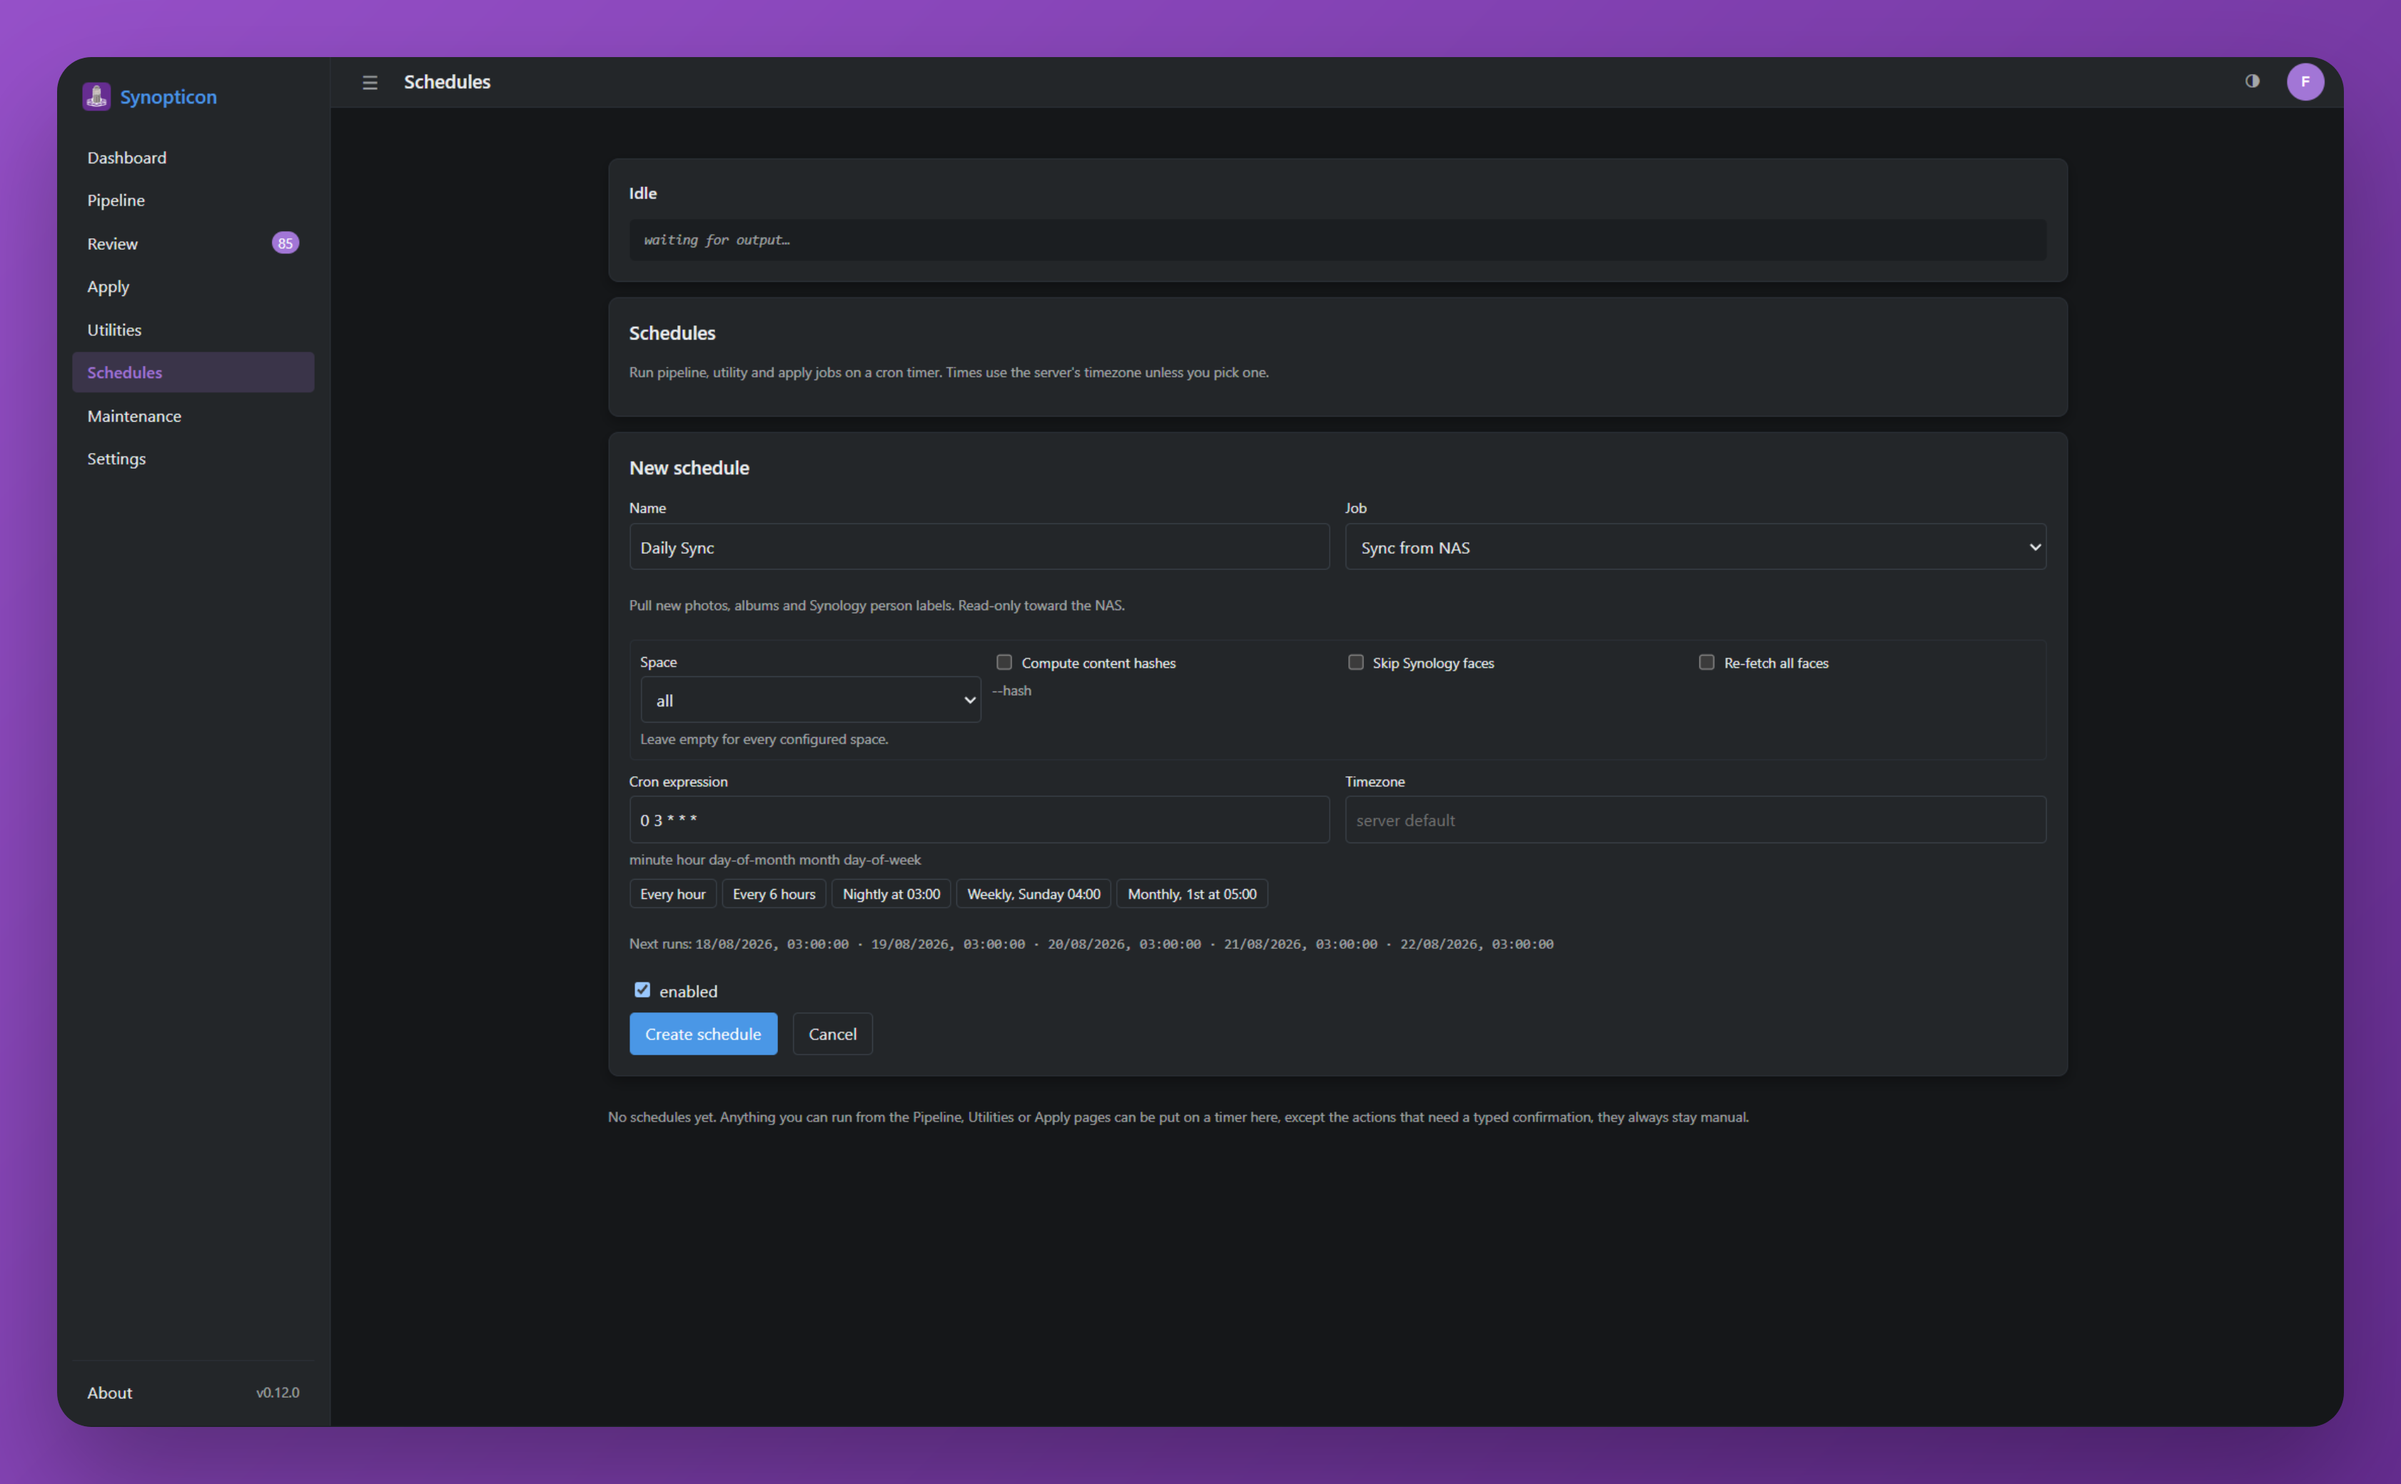
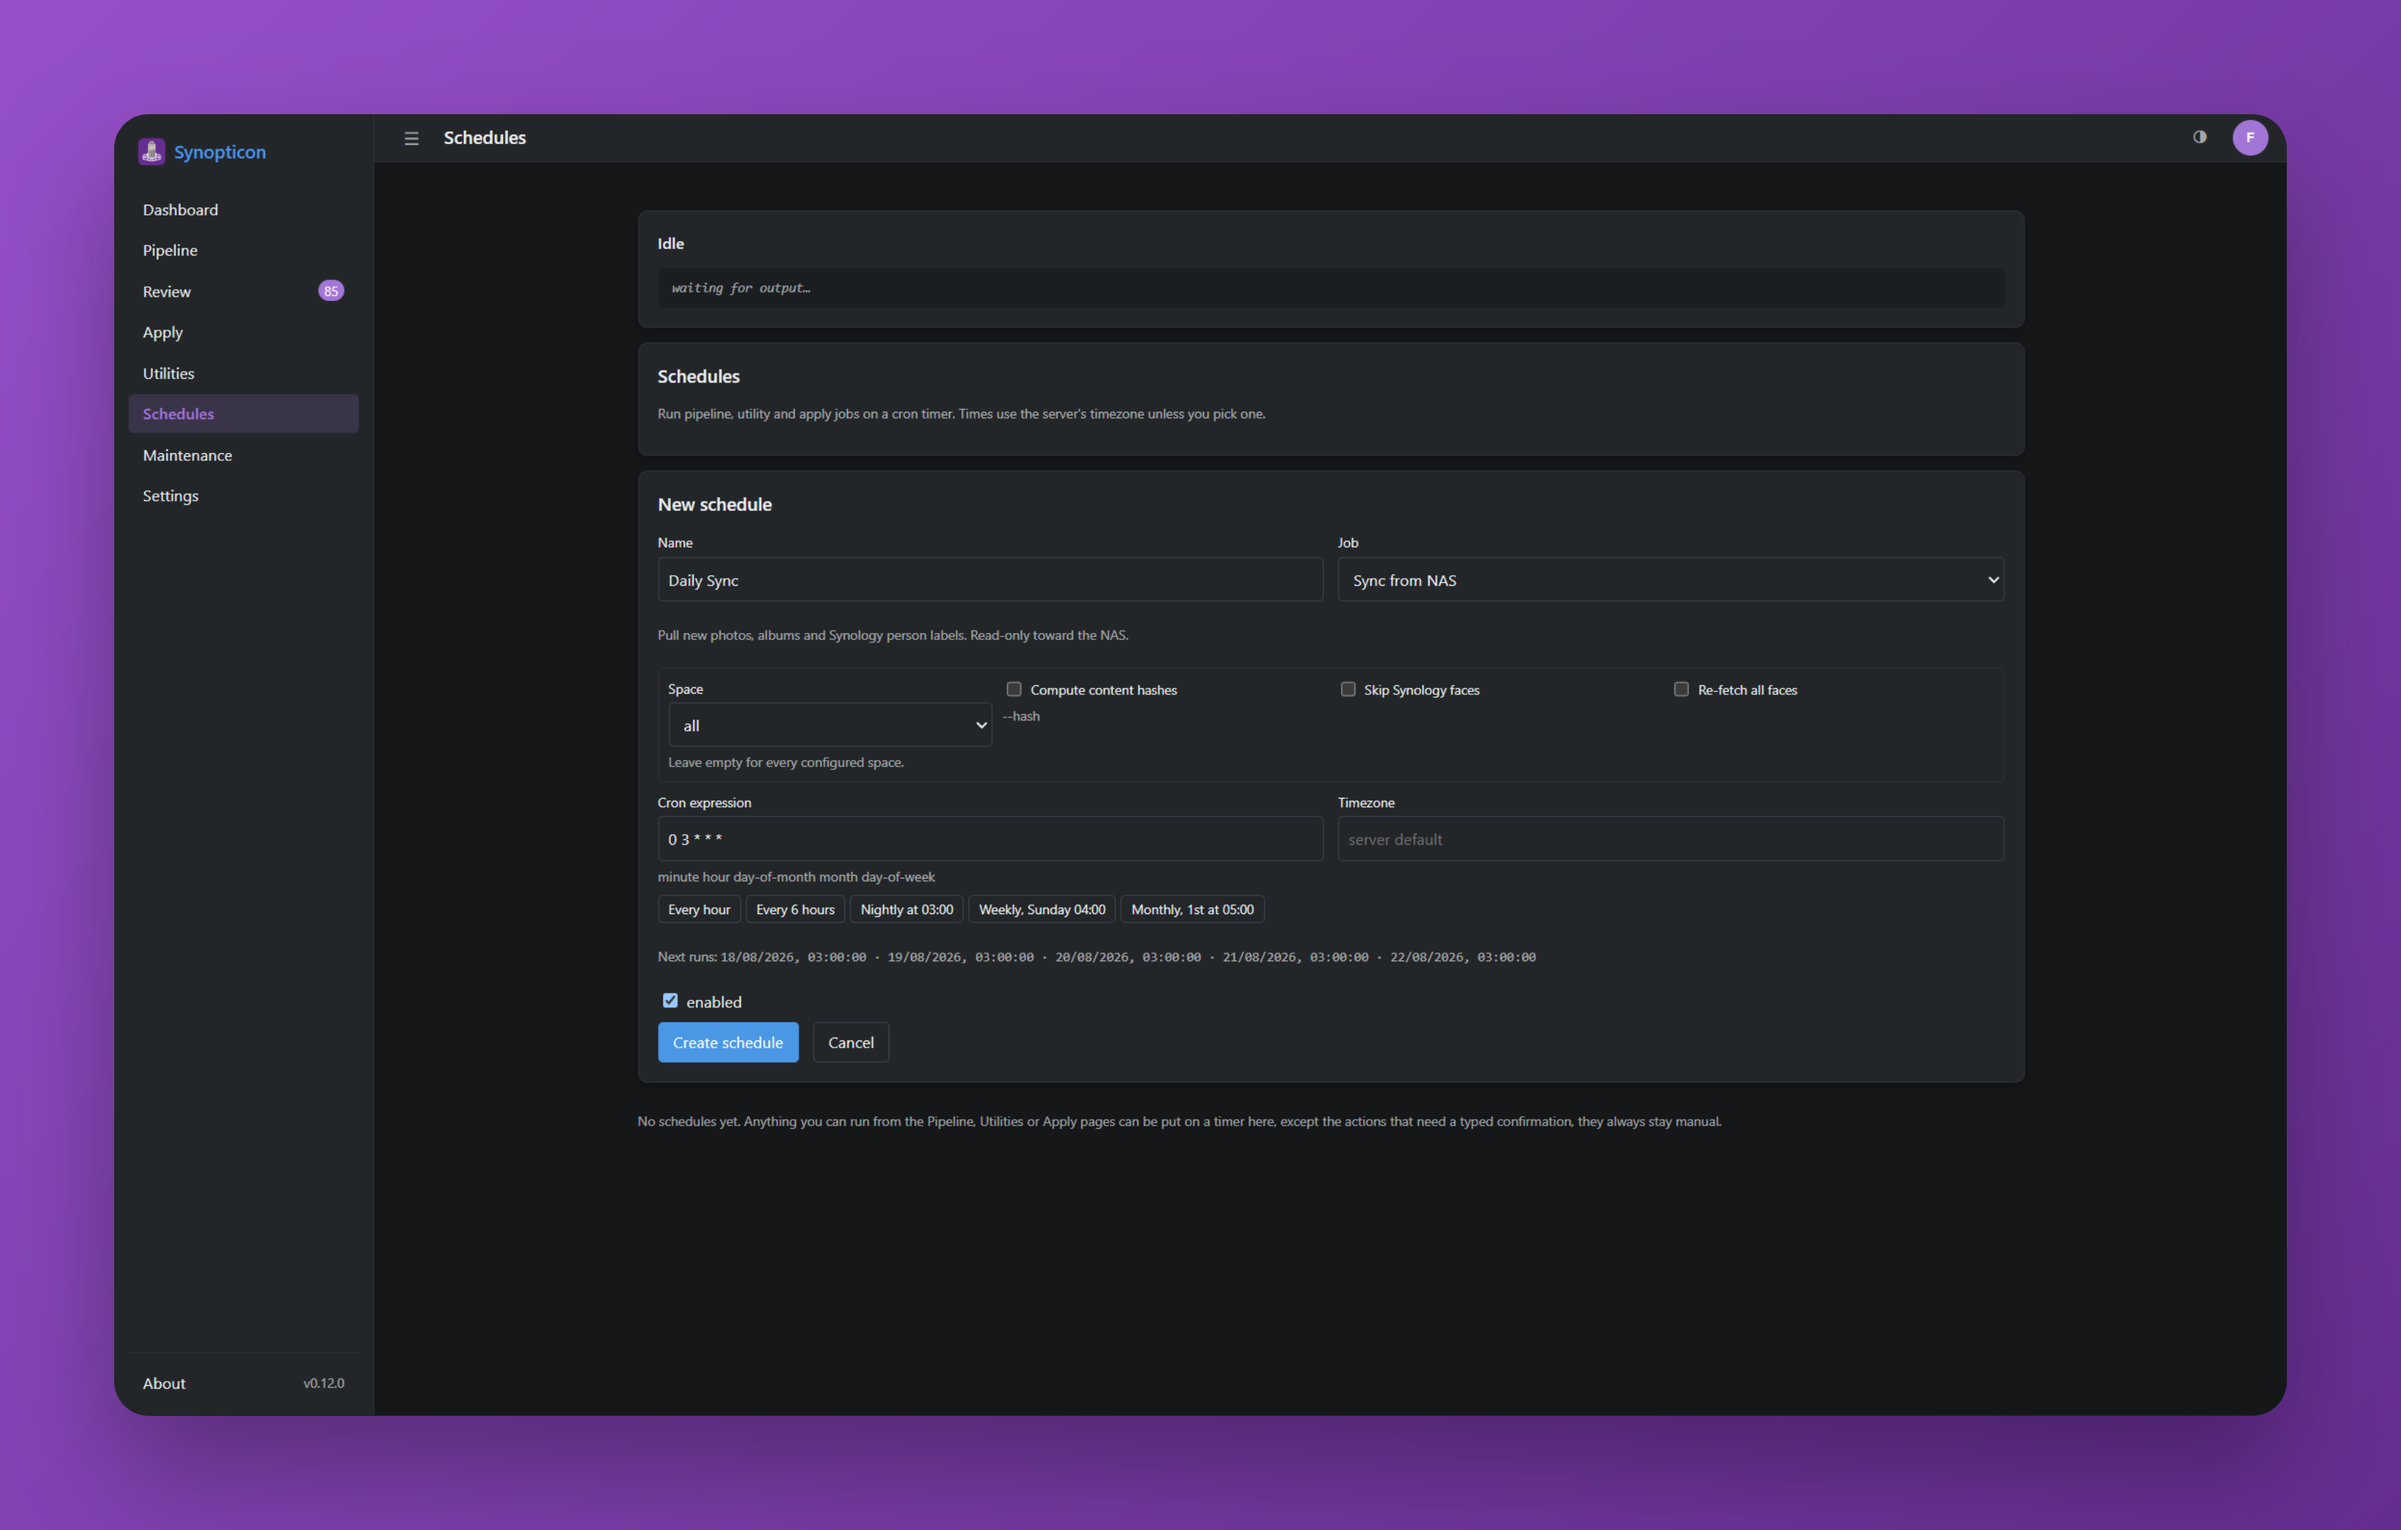
chore(docs): fix some factual issues

diff --git a/README.md b/README.md
@@ -3,7 +3,7 @@
 Synopticon is a toolkit to run alongside Synology Photos, consisting of a set of standalone utilities that run over your library and take on the jobs DSM currently does poorly or not at all. The current toolkit includes enhanced face recognition, robust face grouping, automatic face reassignment, duplicate photo deletion and much more.
 
 **Enhanced face recognition**  
- Synology's built-in face detection misses faces and sometimes links photos to the wrong person. Synopticon runs a frontier ensemble pipeline (multi-scale SCRFD + YOLO-face detection, ArcFace + AdaFace + MagFace embeddings, graph clustering) over your library, cross-references the results against what Synology already knows, and writes corrections back through Synology Photos' Person API. Writebacks only occur after your explicit review.
+ Synology's built-in face detection misses faces and sometimes links photos to the wrong person. Synopticon runs a cutting-edge face detection pipeline over your library, cross-references the results against what Synology already knows, and writes corrections back through Synology Photos' Person API. Writebacks only occur after your explicit review.
 
 ![](./assets/pretty_screenshots/review.png)
 
@@ -23,7 +23,7 @@ After the initial setup, schedule synchronization with the NAS, face detection a
 ## Quickstart
 
 Install the requirements:
-- Python v3.11-3.13
+- Python v3.11-3.12
 - Node v22+
 
 1. Clone the repo and setup directory structure
@@ -31,22 +31,17 @@ Install the requirements:
 git clone https://github.com/fdebijl/synopticon && cd synopticon && mkdir -p data models && cp config.example.toml data/config.toml
 ```
 
-2. Install dependencies
+2. Install dependencies and build the web GUI
 ```bash
-uv run sync --extra cpu --extra review --extra faiss && cd frontend && npm install
+uv sync --extra cpu --extra review --extra faiss && cd frontend && npm ci && npm run build && cd ..
 ```
 
-3. Build the web GUI
-```bash
-npm run build && cd ..
-```
-
-4. Run the web GUI
+3. Run the web GUI
 ```bash
 uv run synopticon web
 ```
 
-5. Point your browser to http://localhost:8686
+4. Point your browser to http://localhost:8686
 
 This spins up the web GUI, which will walk you through the initial setup for Synopticon. This is a great way to play around with all the features of Synopticon, but for long-term deployments you probably want to run it locally using the CLI, or spin up a persistent Docker container. See the chapters below for an outline of how to do just that.
 

diff --git a/CONTRIBUTING.md b/CONTRIBUTING.md
@@ -2,7 +2,7 @@
 This guide lays out how to contribute to Synopticon. Contributions made using LLM's are welcome, as are fully human-coded contributions. Features maybe merged at the discretion of the maintainers.
 
 ## Requirements
-- Python v3.11 <> v3.13
+- Python v3.11-3.12
 - Node v22+
 
 ## Development
